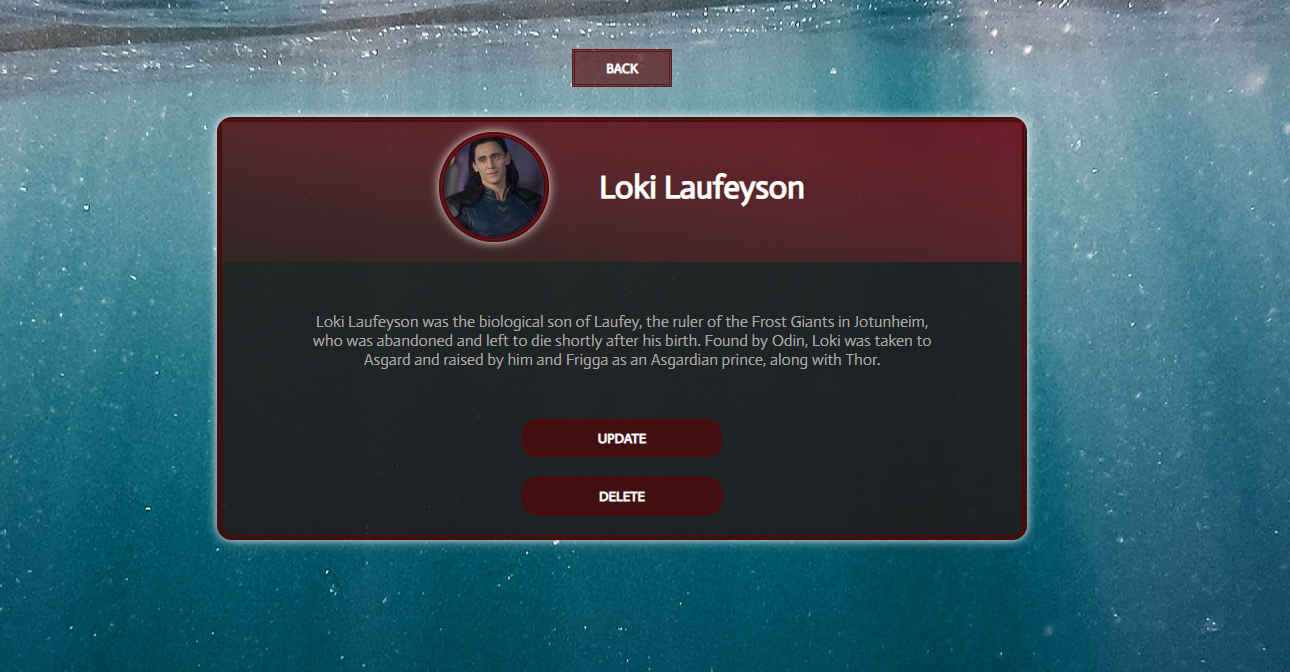
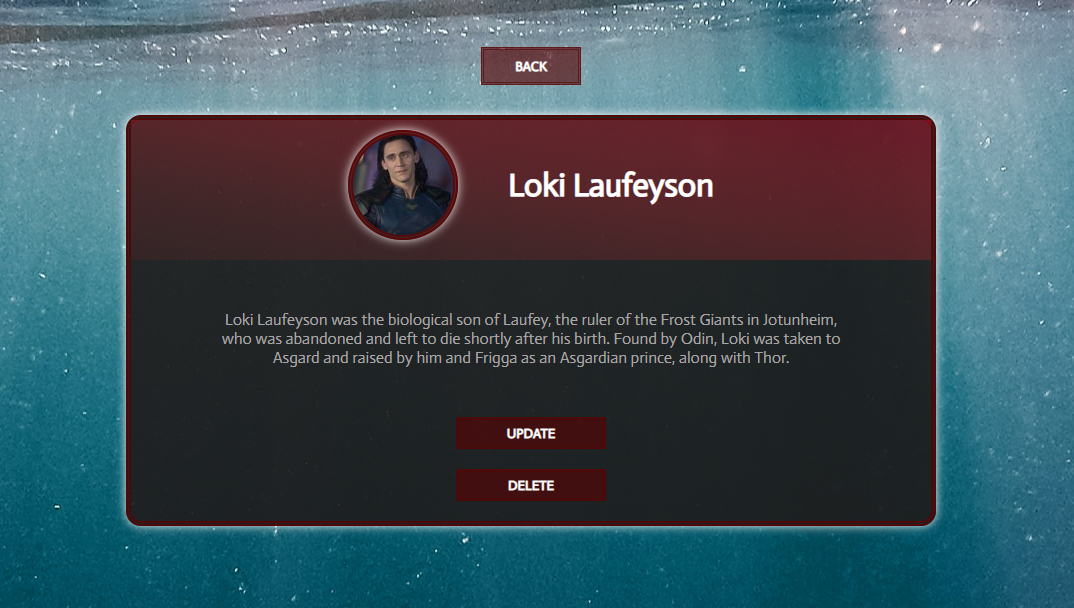
ex

diff --git a/dist/main.js b/dist/main.js
@@ -365,7 +365,7 @@ eval("\n\nvar bind = __webpack_require__(/*! ./helpers/bind */ \"./node_modules/
 /***/ ((module, __webpack_exports__, __webpack_require__) => {
 
 "use strict";
-eval("__webpack_require__.r(__webpack_exports__);\n/* harmony export */ __webpack_require__.d(__webpack_exports__, {\n/* harmony export */   \"default\": () => (__WEBPACK_DEFAULT_EXPORT__)\n/* harmony export */ });\n/* harmony import */ var _node_modules_css_loader_dist_runtime_noSourceMaps_js__WEBPACK_IMPORTED_MODULE_0__ = __webpack_require__(/*! ../../node_modules/css-loader/dist/runtime/noSourceMaps.js */ \"./node_modules/css-loader/dist/runtime/noSourceMaps.js\");\n/* harmony import */ var _node_modules_css_loader_dist_runtime_noSourceMaps_js__WEBPACK_IMPORTED_MODULE_0___default = /*#__PURE__*/__webpack_require__.n(_node_modules_css_loader_dist_runtime_noSourceMaps_js__WEBPACK_IMPORTED_MODULE_0__);\n/* harmony import */ var _node_modules_css_loader_dist_runtime_api_js__WEBPACK_IMPORTED_MODULE_1__ = __webpack_require__(/*! ../../node_modules/css-loader/dist/runtime/api.js */ \"./node_modules/css-loader/dist/runtime/api.js\");\n/* harmony import */ var _node_modules_css_loader_dist_runtime_api_js__WEBPACK_IMPORTED_MODULE_1___default = /*#__PURE__*/__webpack_require__.n(_node_modules_css_loader_dist_runtime_api_js__WEBPACK_IMPORTED_MODULE_1__);\n/* harmony import */ var _node_modules_css_loader_dist_runtime_getUrl_js__WEBPACK_IMPORTED_MODULE_2__ = __webpack_require__(/*! ../../node_modules/css-loader/dist/runtime/getUrl.js */ \"./node_modules/css-loader/dist/runtime/getUrl.js\");\n/* harmony import */ var _node_modules_css_loader_dist_runtime_getUrl_js__WEBPACK_IMPORTED_MODULE_2___default = /*#__PURE__*/__webpack_require__.n(_node_modules_css_loader_dist_runtime_getUrl_js__WEBPACK_IMPORTED_MODULE_2__);\n// Imports\n\n\n\nvar ___CSS_LOADER_URL_IMPORT_0___ = new URL(/* asset import */ __webpack_require__(/*! ../img/bg.jpg */ \"./src/img/bg.jpg\"), __webpack_require__.b);\nvar ___CSS_LOADER_EXPORT___ = _node_modules_css_loader_dist_runtime_api_js__WEBPACK_IMPORTED_MODULE_1___default()((_node_modules_css_loader_dist_runtime_noSourceMaps_js__WEBPACK_IMPORTED_MODULE_0___default()));\n___CSS_LOADER_EXPORT___.push([module.id, \"@import url(https://fonts.googleapis.com/css2?family=Actor&display=swap);\"]);\nvar ___CSS_LOADER_URL_REPLACEMENT_0___ = _node_modules_css_loader_dist_runtime_getUrl_js__WEBPACK_IMPORTED_MODULE_2___default()(___CSS_LOADER_URL_IMPORT_0___);\n// Module\n___CSS_LOADER_EXPORT___.push([module.id, \"* {\\n  margin: 0;\\n  padding: 0;\\n  font-family: \\\"Actor\\\", sans-serif;\\n}\\n* body {\\n  background: url(\" + ___CSS_LOADER_URL_REPLACEMENT_0___ + \") center fixed;\\n}\\n* body header {\\n  background-image: linear-gradient(to right top, rgba(74, 36, 36, 0.431372549), rgba(115, 39, 42, 0.368627451), rgba(158, 37, 45, 0.4039215686), rgba(201, 30, 47, 0.3764705882), rgba(246, 5, 45, 0.3294117647));\\n}\\n* body header nav {\\n  display: flex;\\n  flex-flow: row wrap;\\n  justify-content: space-around;\\n  align-items: center;\\n  border-bottom: 3px solid rgba(88, 3, 3, 0.329);\\n  width: 80%;\\n  margin: auto;\\n  margin-bottom: 50px;\\n  padding-top: 20px;\\n  padding-bottom: 20px;\\n}\\n@media screen and (max-width: 700px) {\\n  * body header nav {\\n    text-align: center;\\n    width: 100%;\\n  }\\n}\\n* body header nav button {\\n  margin-top: 50px;\\n  padding: 5px;\\n  background-color: rgba(88, 3, 3, 0.616);\\n  border: 3px double rgba(88, 3, 3, 0.616);\\n  font-weight: bold;\\n  cursor: pointer;\\n}\\n* body header nav button:hover {\\n  background-color: rgba(112, 39, 39, 0.616);\\n}\\n@media screen and (max-width: 650px) {\\n  * body header nav img {\\n    width: 95%;\\n  }\\n}\\n* body header nav input {\\n  width: 200px;\\n  height: 30px;\\n  border: none;\\n}\\n* body header nav input:focus {\\n  outline: none;\\n}\\n* body main {\\n  color: white;\\n  margin-bottom: 50px;\\n  text-align: center;\\n}\\n* body main .add_character_button {\\n  padding: 10px;\\n  margin-bottom: 50px;\\n}\\n* body main .container_characters {\\n  display: flex;\\n  flex-flow: row wrap;\\n  gap: 60px;\\n  justify-content: center;\\n  align-items: center;\\n  width: 90%;\\n  margin: auto;\\n}\\n* body main .container_characters .container_character {\\n  text-align: center;\\n  background-color: rgba(31, 28, 28, 0.911);\\n  width: 250px;\\n  height: 380px;\\n  border: 5px double rgba(88, 3, 3, 0.856);\\n  box-shadow: 0 0 10px 0px;\\n  border-radius: 15px;\\n  position: relative;\\n}\\n* body main .container_characters .container_character .divImg {\\n  background-image: linear-gradient(to right top, rgba(74, 36, 36, 0.431372549), rgba(115, 39, 42, 0.368627451), rgba(158, 37, 45, 0.4039215686), rgba(201, 30, 47, 0.3764705882), rgba(246, 5, 45, 0.3294117647));\\n  position: relative;\\n  height: 70px;\\n}\\n* body main .container_characters .container_character .divImg img {\\n  border: 5px double rgba(88, 3, 3, 0.856);\\n  box-shadow: 0 0 10px 0px;\\n  border-radius: 50%;\\n  position: absolute;\\n  top: 20px;\\n  left: 70px;\\n}\\n* body main .container_characters .container_character h2 {\\n  margin-top: 100px;\\n  margin-bottom: 30px;\\n}\\n* body main .container_characters .container_character p {\\n  color: rgb(168, 165, 165);\\n  padding: 5px;\\n}\\n* body main .container_characters .container_character button {\\n  position: absolute;\\n  bottom: 0;\\n  left: 0;\\n  width: 100%;\\n  color: white;\\n  padding: 8px;\\n  background-color: rgba(63, 18, 18, 0.616);\\n  border: 3px double rgba(88, 3, 3, 0.616);\\n  font-weight: bold;\\n  text-transform: uppercase;\\n  cursor: pointer;\\n}\\n* body main .container_characters .container_character button:hover {\\n  background-color: rgba(112, 39, 39, 0.616);\\n}\\n* body main .container_Search {\\n  text-align: center;\\n  background-color: rgba(31, 28, 28, 0.911);\\n  width: 250px;\\n  height: 380px;\\n  border: 5px double rgba(88, 3, 3, 0.856);\\n  box-shadow: 0 0 10px 0px;\\n  border-radius: 15px;\\n  position: relative;\\n  margin: auto;\\n  margin-bottom: 30px;\\n}\\n* body main .container_Search .divImg {\\n  background-image: linear-gradient(to right top, rgba(74, 36, 36, 0.431372549), rgba(115, 39, 42, 0.368627451), rgba(158, 37, 45, 0.4039215686), rgba(201, 30, 47, 0.3764705882), rgba(246, 5, 45, 0.3294117647));\\n  position: relative;\\n  height: 70px;\\n}\\n* body main .container_Search .divImg img {\\n  border: 5px double rgba(88, 3, 3, 0.856);\\n  box-shadow: 0 0 10px 0px;\\n  border-radius: 50%;\\n  position: absolute;\\n  top: 20px;\\n  left: 70px;\\n}\\n* body main .container_Search h2 {\\n  margin-top: 100px;\\n  margin-bottom: 30px;\\n}\\n* body main .container_Search p {\\n  color: rgb(168, 165, 165);\\n  padding: 5px;\\n}\\n* body main .container_Search button {\\n  position: absolute;\\n  bottom: 0;\\n  left: 0;\\n  width: 100%;\\n  color: white;\\n  padding: 8px;\\n  background-color: rgba(63, 18, 18, 0.616);\\n  border: 3px double rgba(88, 3, 3, 0.616);\\n  font-weight: bold;\\n  text-transform: uppercase;\\n  cursor: pointer;\\n}\\n* body main .container_Search button:hover {\\n  background-color: rgba(112, 39, 39, 0.616);\\n}\\n* body main .add_character {\\n  background-color: rgba(31, 28, 28, 0.911);\\n  border: 5px double rgba(88, 3, 3, 0.856);\\n  box-shadow: 0 0 10px 0px;\\n  border-radius: 15px;\\n  width: 600px;\\n  padding: 30px;\\n  margin: auto;\\n  display: none;\\n}\\n* body main .add_character input:focus {\\n  outline: none;\\n}\\n* body main .add_character textarea:focus {\\n  outline: none;\\n}\\n@media screen and (max-width: 700px) {\\n  * body main .add_character {\\n    width: 80%;\\n  }\\n}\\n* body main .update_character {\\n  background-color: rgba(31, 28, 28, 0.911);\\n  border: 5px double rgba(88, 3, 3, 0.856);\\n  box-shadow: 0 0 10px 0px;\\n  border-radius: 15px;\\n  width: 600px;\\n  padding: 30px;\\n  margin: auto;\\n  display: none;\\n}\\n* body main .update_character input:focus {\\n  outline: none;\\n}\\n* body main .update_character textarea:focus {\\n  outline: none;\\n}\\n@media screen and (max-width: 700px) {\\n  * body main .update_character {\\n    width: 80%;\\n  }\\n}\\n* body main .full_profile {\\n  display: none;\\n  width: 800px;\\n  border: 5px double rgba(88, 3, 3, 0.856);\\n  box-shadow: 0 0 10px 0px;\\n  background-color: rgba(31, 28, 28, 0.911);\\n  border-radius: 15px;\\n  margin: auto;\\n  text-align: center;\\n}\\n@media screen and (max-width: 900px) {\\n  * body main .full_profile {\\n    width: 80%;\\n  }\\n}\\n* body main .full_profile .Container_img_title {\\n  display: flex;\\n  flex-flow: wrap;\\n  justify-content: center;\\n  gap: 50px;\\n  align-items: center;\\n  margin-bottom: 50px;\\n  padding-top: 10px;\\n  padding-bottom: 20px;\\n  background-image: linear-gradient(to right top, rgba(74, 36, 36, 0.431372549), rgba(115, 39, 42, 0.368627451), rgba(158, 37, 45, 0.4039215686), rgba(201, 30, 47, 0.3764705882), rgba(246, 5, 45, 0.3294117647));\\n}\\n* body main .full_profile .Container_img_title img {\\n  border: 5px double rgba(88, 3, 3, 0.856);\\n  box-shadow: 0 0 10px 0px;\\n  border-radius: 50%;\\n}\\n* body main .full_profile .Container_img_title h2 {\\n  font-size: xx-large;\\n}\\n* body main .full_profile p {\\n  width: 80%;\\n  text-align: center;\\n  margin: auto;\\n  margin-bottom: 50px;\\n  color: rgb(168, 165, 165);\\n}\\n* body main .full_profile button {\\n  padding: 5px;\\n  border-radius: 15px;\\n  margin: auto;\\n  margin-bottom: 20px;\\n  display: block;\\n  font-weight: bold;\\n  text-transform: uppercase;\\n}\\n* body main .return {\\n  visibility: hidden;\\n  width: 100px;\\n  margin-bottom: 30px;\\n}\\n* body main button {\\n  padding: 8px;\\n  width: 150px;\\n  background-color: rgba(88, 3, 3, 0.616);\\n  border: 3px double rgba(88, 3, 3, 0.616);\\n  cursor: pointer;\\n  color: white;\\n  font-weight: bold;\\n  text-transform: uppercase;\\n}\\n* body main button:hover {\\n  background-color: rgba(112, 39, 39, 0.616);\\n}\", \"\"]);\n// Exports\n/* harmony default export */ const __WEBPACK_DEFAULT_EXPORT__ = (___CSS_LOADER_EXPORT___);\n\n\n//# sourceURL=webpack://character-manager/./src/scss/style.scss?./node_modules/css-loader/dist/cjs.js!./node_modules/sass-loader/dist/cjs.js??ruleSet%5B1%5D.rules%5B0%5D.use%5B2%5D");
+eval("__webpack_require__.r(__webpack_exports__);\n/* harmony export */ __webpack_require__.d(__webpack_exports__, {\n/* harmony export */   \"default\": () => (__WEBPACK_DEFAULT_EXPORT__)\n/* harmony export */ });\n/* harmony import */ var _node_modules_css_loader_dist_runtime_noSourceMaps_js__WEBPACK_IMPORTED_MODULE_0__ = __webpack_require__(/*! ../../node_modules/css-loader/dist/runtime/noSourceMaps.js */ \"./node_modules/css-loader/dist/runtime/noSourceMaps.js\");\n/* harmony import */ var _node_modules_css_loader_dist_runtime_noSourceMaps_js__WEBPACK_IMPORTED_MODULE_0___default = /*#__PURE__*/__webpack_require__.n(_node_modules_css_loader_dist_runtime_noSourceMaps_js__WEBPACK_IMPORTED_MODULE_0__);\n/* harmony import */ var _node_modules_css_loader_dist_runtime_api_js__WEBPACK_IMPORTED_MODULE_1__ = __webpack_require__(/*! ../../node_modules/css-loader/dist/runtime/api.js */ \"./node_modules/css-loader/dist/runtime/api.js\");\n/* harmony import */ var _node_modules_css_loader_dist_runtime_api_js__WEBPACK_IMPORTED_MODULE_1___default = /*#__PURE__*/__webpack_require__.n(_node_modules_css_loader_dist_runtime_api_js__WEBPACK_IMPORTED_MODULE_1__);\n/* harmony import */ var _node_modules_css_loader_dist_runtime_getUrl_js__WEBPACK_IMPORTED_MODULE_2__ = __webpack_require__(/*! ../../node_modules/css-loader/dist/runtime/getUrl.js */ \"./node_modules/css-loader/dist/runtime/getUrl.js\");\n/* harmony import */ var _node_modules_css_loader_dist_runtime_getUrl_js__WEBPACK_IMPORTED_MODULE_2___default = /*#__PURE__*/__webpack_require__.n(_node_modules_css_loader_dist_runtime_getUrl_js__WEBPACK_IMPORTED_MODULE_2__);\n// Imports\n\n\n\nvar ___CSS_LOADER_URL_IMPORT_0___ = new URL(/* asset import */ __webpack_require__(/*! ../img/bg.jpg */ \"./src/img/bg.jpg\"), __webpack_require__.b);\nvar ___CSS_LOADER_EXPORT___ = _node_modules_css_loader_dist_runtime_api_js__WEBPACK_IMPORTED_MODULE_1___default()((_node_modules_css_loader_dist_runtime_noSourceMaps_js__WEBPACK_IMPORTED_MODULE_0___default()));\n___CSS_LOADER_EXPORT___.push([module.id, \"@import url(https://fonts.googleapis.com/css2?family=Actor&display=swap);\"]);\nvar ___CSS_LOADER_URL_REPLACEMENT_0___ = _node_modules_css_loader_dist_runtime_getUrl_js__WEBPACK_IMPORTED_MODULE_2___default()(___CSS_LOADER_URL_IMPORT_0___);\n// Module\n___CSS_LOADER_EXPORT___.push([module.id, \"* {\\n  margin: 0;\\n  padding: 0;\\n  font-family: \\\"Actor\\\", sans-serif;\\n}\\n* body {\\n  background: url(\" + ___CSS_LOADER_URL_REPLACEMENT_0___ + \") center fixed;\\n}\\n* body header {\\n  background-image: linear-gradient(to right top, rgba(74, 36, 36, 0.431372549), rgba(115, 39, 42, 0.368627451), rgba(158, 37, 45, 0.4039215686), rgba(201, 30, 47, 0.3764705882), rgba(246, 5, 45, 0.3294117647));\\n}\\n* body header nav {\\n  display: flex;\\n  flex-flow: row wrap;\\n  justify-content: space-around;\\n  align-items: center;\\n  border-bottom: 3px solid rgba(88, 3, 3, 0.329);\\n  width: 80%;\\n  margin: auto;\\n  margin-bottom: 50px;\\n  padding-top: 20px;\\n  padding-bottom: 20px;\\n}\\n@media screen and (max-width: 700px) {\\n  * body header nav {\\n    text-align: center;\\n    width: 100%;\\n  }\\n}\\n* body header nav button {\\n  margin-top: 50px;\\n  padding: 5px;\\n  background-color: rgba(88, 3, 3, 0.616);\\n  border: 3px double rgba(88, 3, 3, 0.616);\\n  font-weight: bold;\\n  cursor: pointer;\\n}\\n* body header nav button:hover {\\n  background-color: rgba(112, 39, 39, 0.616);\\n}\\n@media screen and (max-width: 650px) {\\n  * body header nav img {\\n    width: 95%;\\n  }\\n}\\n* body header nav input {\\n  width: 200px;\\n  height: 30px;\\n  border: none;\\n}\\n* body header nav input:focus {\\n  outline: none;\\n}\\n* body main {\\n  color: white;\\n  margin-bottom: 50px;\\n  text-align: center;\\n}\\n* body main .add_character_button {\\n  padding: 10px;\\n  margin-bottom: 50px;\\n}\\n* body main .container_characters {\\n  display: flex;\\n  flex-flow: row wrap;\\n  gap: 60px;\\n  justify-content: center;\\n  align-items: center;\\n  width: 90%;\\n  margin: auto;\\n}\\n* body main .container_characters .container_character {\\n  text-align: center;\\n  background-color: rgba(31, 28, 28, 0.911);\\n  width: 250px;\\n  height: 380px;\\n  border: 5px double rgba(88, 3, 3, 0.856);\\n  box-shadow: 0 0 10px 0px;\\n  border-radius: 15px;\\n  position: relative;\\n}\\n* body main .container_characters .container_character .divImg {\\n  background-image: linear-gradient(to right top, rgba(74, 36, 36, 0.431372549), rgba(115, 39, 42, 0.368627451), rgba(158, 37, 45, 0.4039215686), rgba(201, 30, 47, 0.3764705882), rgba(246, 5, 45, 0.3294117647));\\n  position: relative;\\n  height: 70px;\\n}\\n* body main .container_characters .container_character .divImg img {\\n  border: 5px double rgba(88, 3, 3, 0.856);\\n  box-shadow: 0 0 10px 0px;\\n  border-radius: 50%;\\n  position: absolute;\\n  top: 20px;\\n  left: 70px;\\n}\\n* body main .container_characters .container_character h2 {\\n  margin-top: 100px;\\n  margin-bottom: 30px;\\n}\\n* body main .container_characters .container_character p {\\n  color: rgb(168, 165, 165);\\n  padding: 5px;\\n}\\n* body main .container_characters .container_character button {\\n  position: absolute;\\n  bottom: 0;\\n  left: 0;\\n  width: 100%;\\n  color: white;\\n  padding: 8px;\\n  background-color: rgba(63, 18, 18, 0.616);\\n  border: 3px double rgba(88, 3, 3, 0.616);\\n  font-weight: bold;\\n  text-transform: uppercase;\\n  cursor: pointer;\\n}\\n* body main .container_characters .container_character button:hover {\\n  background-color: rgba(112, 39, 39, 0.616);\\n}\\n* body main .container_Search {\\n  text-align: center;\\n  background-color: rgba(31, 28, 28, 0.911);\\n  width: 250px;\\n  height: 380px;\\n  border: 5px double rgba(88, 3, 3, 0.856);\\n  box-shadow: 0 0 10px 0px;\\n  border-radius: 15px;\\n  position: relative;\\n  margin: auto;\\n  margin-bottom: 30px;\\n}\\n* body main .container_Search .divImg {\\n  background-image: linear-gradient(to right top, rgba(74, 36, 36, 0.431372549), rgba(115, 39, 42, 0.368627451), rgba(158, 37, 45, 0.4039215686), rgba(201, 30, 47, 0.3764705882), rgba(246, 5, 45, 0.3294117647));\\n  position: relative;\\n  height: 70px;\\n}\\n* body main .container_Search .divImg img {\\n  border: 5px double rgba(88, 3, 3, 0.856);\\n  box-shadow: 0 0 10px 0px;\\n  border-radius: 50%;\\n  position: absolute;\\n  top: 20px;\\n  left: 70px;\\n}\\n* body main .container_Search h2 {\\n  margin-top: 100px;\\n  margin-bottom: 30px;\\n}\\n* body main .container_Search p {\\n  color: rgb(168, 165, 165);\\n  padding: 5px;\\n}\\n* body main .container_Search button {\\n  position: absolute;\\n  bottom: 0;\\n  left: 0;\\n  width: 100%;\\n  color: white;\\n  padding: 8px;\\n  background-color: rgba(63, 18, 18, 0.616);\\n  border: 3px double rgba(88, 3, 3, 0.616);\\n  font-weight: bold;\\n  text-transform: uppercase;\\n  cursor: pointer;\\n}\\n* body main .container_Search button:hover {\\n  background-color: rgba(112, 39, 39, 0.616);\\n}\\n* body main .add_character {\\n  background-color: rgba(31, 28, 28, 0.911);\\n  border: 5px double rgba(88, 3, 3, 0.856);\\n  box-shadow: 0 0 10px 0px;\\n  border-radius: 15px;\\n  width: 600px;\\n  padding: 30px;\\n  margin: auto;\\n  display: none;\\n}\\n* body main .add_character input:focus {\\n  outline: none;\\n}\\n* body main .add_character textarea:focus {\\n  outline: none;\\n}\\n@media screen and (max-width: 700px) {\\n  * body main .add_character {\\n    width: 80%;\\n  }\\n}\\n* body main .update_character {\\n  background-color: rgba(31, 28, 28, 0.911);\\n  border: 5px double rgba(88, 3, 3, 0.856);\\n  box-shadow: 0 0 10px 0px;\\n  border-radius: 15px;\\n  width: 600px;\\n  padding: 30px;\\n  margin: auto;\\n  display: none;\\n}\\n* body main .update_character input:focus {\\n  outline: none;\\n}\\n* body main .update_character textarea:focus {\\n  outline: none;\\n}\\n@media screen and (max-width: 700px) {\\n  * body main .update_character {\\n    width: 80%;\\n  }\\n}\\n* body main .full_profile {\\n  display: none;\\n  width: 800px;\\n  border: 5px double rgba(88, 3, 3, 0.856);\\n  box-shadow: 0 0 10px 0px;\\n  background-color: rgba(31, 28, 28, 0.911);\\n  border-radius: 15px;\\n  margin: auto;\\n  text-align: center;\\n}\\n@media screen and (max-width: 900px) {\\n  * body main .full_profile {\\n    width: 80%;\\n  }\\n}\\n* body main .full_profile .Container_img_title {\\n  display: flex;\\n  flex-flow: wrap;\\n  justify-content: center;\\n  gap: 50px;\\n  align-items: center;\\n  margin-bottom: 50px;\\n  padding-top: 10px;\\n  padding-bottom: 20px;\\n  background-image: linear-gradient(to right top, rgba(74, 36, 36, 0.431372549), rgba(115, 39, 42, 0.368627451), rgba(158, 37, 45, 0.4039215686), rgba(201, 30, 47, 0.3764705882), rgba(246, 5, 45, 0.3294117647));\\n}\\n* body main .full_profile .Container_img_title img {\\n  border: 5px double rgba(88, 3, 3, 0.856);\\n  box-shadow: 0 0 10px 0px;\\n  border-radius: 50%;\\n}\\n* body main .full_profile .Container_img_title h2 {\\n  font-size: xx-large;\\n}\\n* body main .full_profile p {\\n  width: 80%;\\n  text-align: center;\\n  margin: auto;\\n  margin-bottom: 50px;\\n  color: rgb(168, 165, 165);\\n}\\n* body main .full_profile button {\\n  padding: 5px;\\n  margin: auto;\\n  margin-bottom: 20px;\\n  display: block;\\n  font-weight: bold;\\n  text-transform: uppercase;\\n}\\n* body main .return {\\n  visibility: hidden;\\n  width: 100px;\\n  margin-bottom: 30px;\\n}\\n* body main button {\\n  padding: 8px;\\n  width: 150px;\\n  background-color: rgba(88, 3, 3, 0.616);\\n  border: 3px double rgba(88, 3, 3, 0.616);\\n  cursor: pointer;\\n  color: white;\\n  font-weight: bold;\\n  text-transform: uppercase;\\n}\\n* body main button:hover {\\n  background-color: rgba(112, 39, 39, 0.616);\\n}\", \"\"]);\n// Exports\n/* harmony default export */ const __WEBPACK_DEFAULT_EXPORT__ = (___CSS_LOADER_EXPORT___);\n\n\n//# sourceURL=webpack://character-manager/./src/scss/style.scss?./node_modules/css-loader/dist/cjs.js!./node_modules/sass-loader/dist/cjs.js??ruleSet%5B1%5D.rules%5B0%5D.use%5B2%5D");
 
 /***/ }),
 

diff --git a/src/scss/_main.scss b/src/scss/_main.scss
@@ -282,7 +282,6 @@
 
         button {
           padding: 5px;
-          border-radius: 15px;
           margin: auto;
           margin-bottom: 20px;
           display: block;

diff --git a/README.md b/README.md
@@ -16,6 +16,14 @@ We had to create an app " Character-manager ", using JS with the help of an API,
 
 ![mainPage](./src/img/caption_mainPage.png)
 
+## Full profile
+
+![full profile](./src/img/full_profile.png)
+
+## Creation
+
+![form](./src/img/create.png)
+
 ## Technologies
 
 HTML, SCSS, JS
